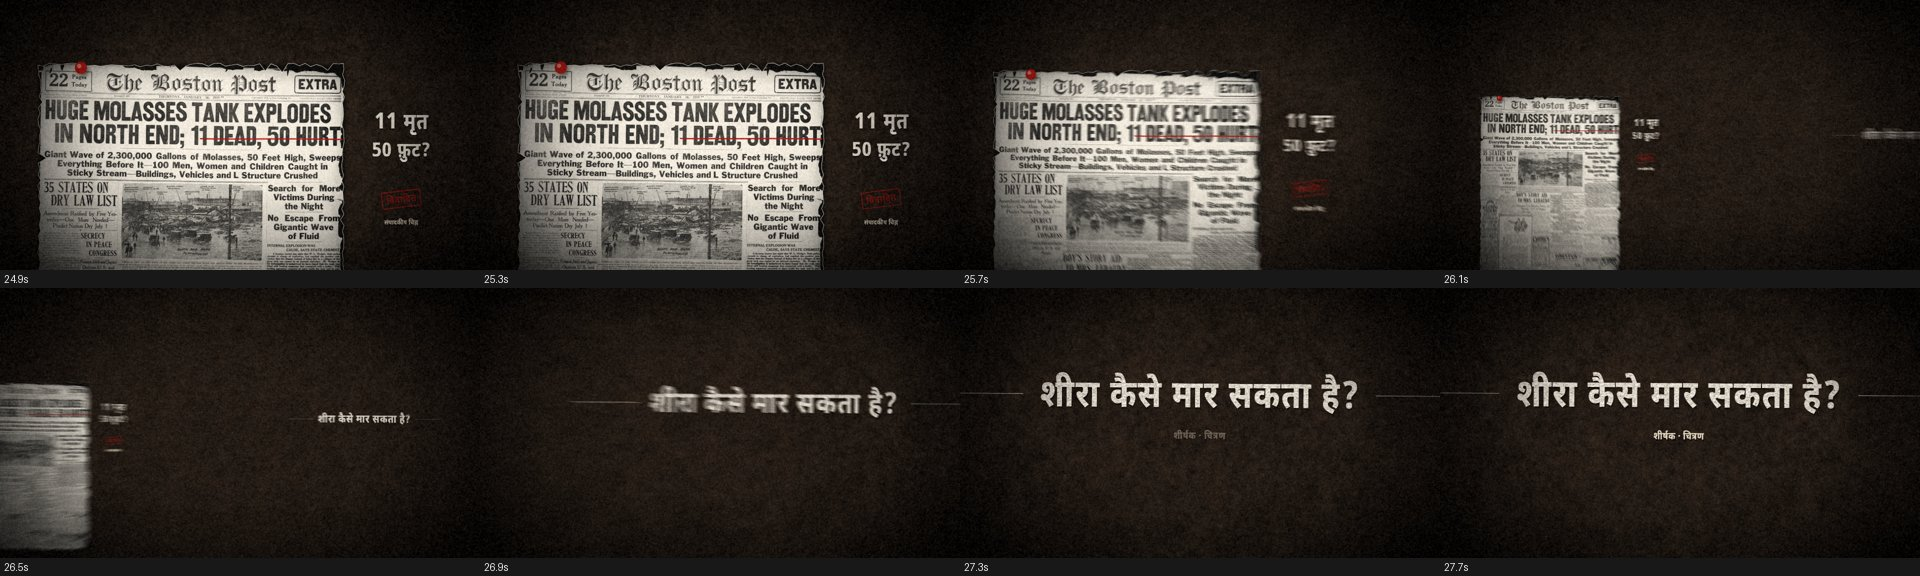
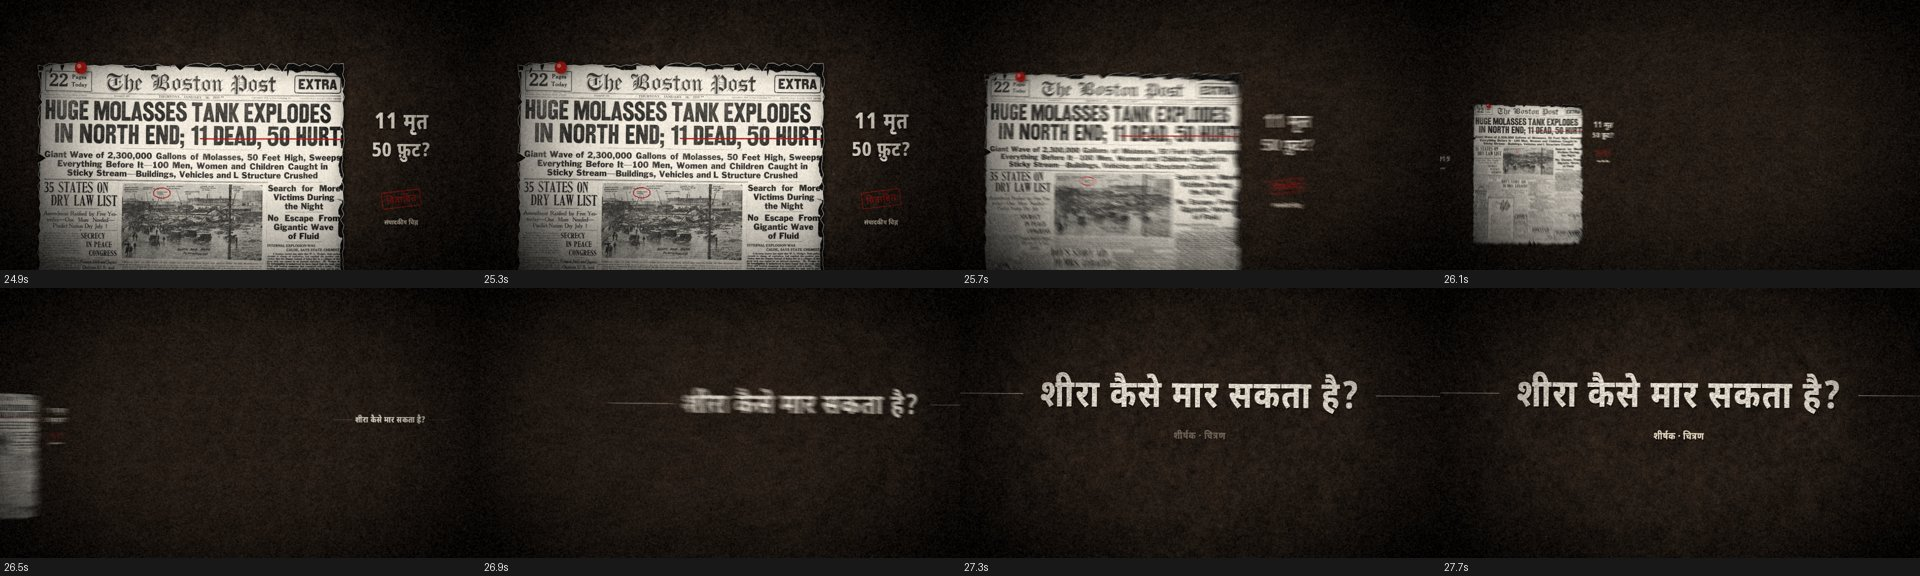
Phase 10: visuals approved by the producer; assets, effects, sound and look review rebuilt; underline and label-ring fixes; awaiting look approval
Claude-Session: https://claude.ai/code/session_01BAr5kQk576SVVXZRxXZaan

diff --git a/productions/molasses-flood/editions/hi/06_film/act_01/scene.py b/productions/molasses-flood/editions/hi/06_film/act_01/scene.py
@@ -644,6 +644,9 @@ def build_film(doc):
     q1b = pbox(q1, doc)
     typed(1, q1b[0] - 1500, (q1_photo[1] + q1_photo[3]) / 2, L(1) + 0.1, 240)
     put(Tag("बोस्टन पोस्ट, 16 जनवरी 1919 में छपी तस्वीर", q1b[0] - 1500, (q1_photo[1] + q1_photo[3]) / 2 + 260, L(1) + 0.6), 1)
+    q1_tank = region(q1, doc, 0.383, 0.324, 0.426, 0.340)          # the photo's own printed label "WHERE TANK STOOD"
+    put(PenMark("ellipse", (q1_tank[0] + q1_tank[2]) / 2, (q1_tank[1] + q1_tank[3]) / 2, (q1_tank[2] - q1_tank[0]) * 1.25,
+                (q1_tank[3] - q1_tank[1]) * 1.6, t_in=W(2, "टैंक") - 0.2, width=10), 2, q1_tank)
     q1_deck = region(q1, doc, 0.02, 0.205, 0.99, 0.29)
     q1_head = region(q1, doc, 0.02, 0.075, 0.99, 0.215)
     q1_dead = region(q1, doc, 0.53, 0.15, 0.99, 0.195)
@@ -751,12 +754,12 @@ def build_film(doc):
     put(PenMark("ellipse", (q4_play[0] + q4_play[2]) / 2, (q4_play[1] + q4_play[3]) / 2, (q4_play[2] - q4_play[0]) * 1.1, 200,
                 t_in=W(34, "मैदान") - 0.2, width=12), 34, q4_play)
     q4_horses = region(q4, doc, 0.745, 0.722, 0.995, 0.758)
-    q4_dead_animals = region(q4, doc, 0.745, 0.728, 0.995, 0.742)
-    q4_terminal = region(q4, doc, 0.745, 0.744, 0.995, 0.756)
+    q4_dead_animals = region(q4, doc, 0.745, 0.728, 0.995, 0.7405)
+    q4_terminal = region(q4, doc, 0.745, 0.739, 0.995, 0.7487)
     put(PenMark("underline", (q4_dead_animals[0] + q4_dead_animals[2]) / 2, q4_dead_animals[3], q4_dead_animals[2] - q4_dead_animals[0], 20,
-                t_in=W(35, "घोड़े") - 0.2, width=12), 35, q4_dead_animals)
+                t_in=W(35, "घोड़े") - 0.2, width=7), 35, q4_dead_animals)
     put(PenMark("underline", (q4_terminal[0] + q4_terminal[2]) / 2, q4_terminal[3], q4_terminal[2] - q4_terminal[0], 20,
-                t_in=W(36, "टर्मिनल") - 0.2, width=12), 36, q4_terminal)
+                t_in=W(36, "टर्मिनल") - 0.2, width=7), 36, q4_terminal)
     TX, TY = O[0] - 6400, O[1] + 5600
     t11 = put(BigText(BY_LINE[37]["typed"], TX - 1200, TY, 520, L(37) + 0.1, rgb=TYPE), 37)
     put(Tag("मौतें · पोस्ट की पहली गिनती", TX - 1200, TY + 300, L(37) + 0.5), 37)

diff --git a/productions/molasses-flood/release/PHASE10_STATUS.md b/productions/molasses-flood/release/PHASE10_STATUS.md
@@ -1,4 +1,4 @@
-# Phase 10 — status: stopped at the visuals gate (human approval needed)
+# Phase 10 — status: stopped at the look gate (human approval needed)
 
 ## Done
 
@@ -33,3 +33,23 @@ session's safety check, correctly. **Nothing after the visuals gate has been run
 2. Then the agent can run assets → scenegen → effects → sound → subtitles → look review, and stop again
    at the **look gate** for your approval (also a human decision), then render → join → captions →
    QC → report.
+
+## Update (after the producer's visuals approval)
+
+* `[visuals] approved` by the producer's command. Then `docpipe.py run --until review` (absolute path):
+  assets (8 photos), scenegen (edited scene kept), effects (84 cues), sound (−15.0 LUFS, −1.4 dBTP,
+  narration 17.8 dB over music; within the pipeline's true-peak tolerance), subtitles unchanged, review:
+  57 stills, 9 strips, 0 flags. **review@hi awaits the look approval.**
+* Scene corrections found while checking the stills: the line-36 underline moved up one printed line
+  and both line-35/36 underlines thinned to sit between the scan's lines; a ring on the Post photo's
+  own printed label "WHERE TANK STOOD" on line 2 (so the close-up frame is not reported as empty).
+* Composition (QC geometry): caption collisions 1 ("21" at 349.5 s, 48 %, during the closing move);
+  text overflow 0; empty holds 0.
+* Rights (`rights.py check`): **8 images used, 0 not usable** — the Boston Post page (×7) and the 2005
+  map; credits would read: Boston Post · map · narration (espeak). Panorama and railway photo: not used.
+* Look sheet of the changed scenes: `reviews/look/phase10_changes.jpg`; full sheet
+  `07_review/hi/act_01/sheet.jpg`.
+
+To continue: approve the look —
+`python3 skills/cinematic-film/scripts/docpipe.py approve --project /home/user/cinematic-skill/productions/molasses-flood look --lang hi`
+— then the agent runs render → join → captions → QC → report.
